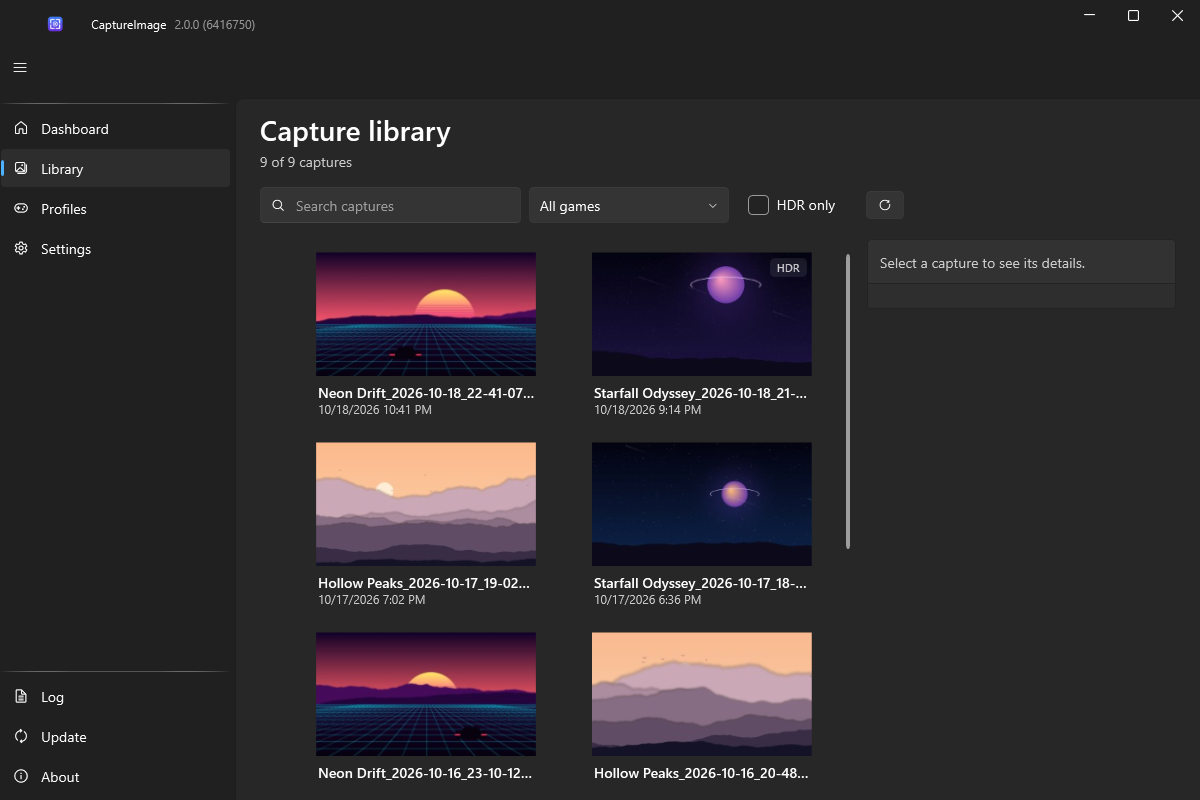
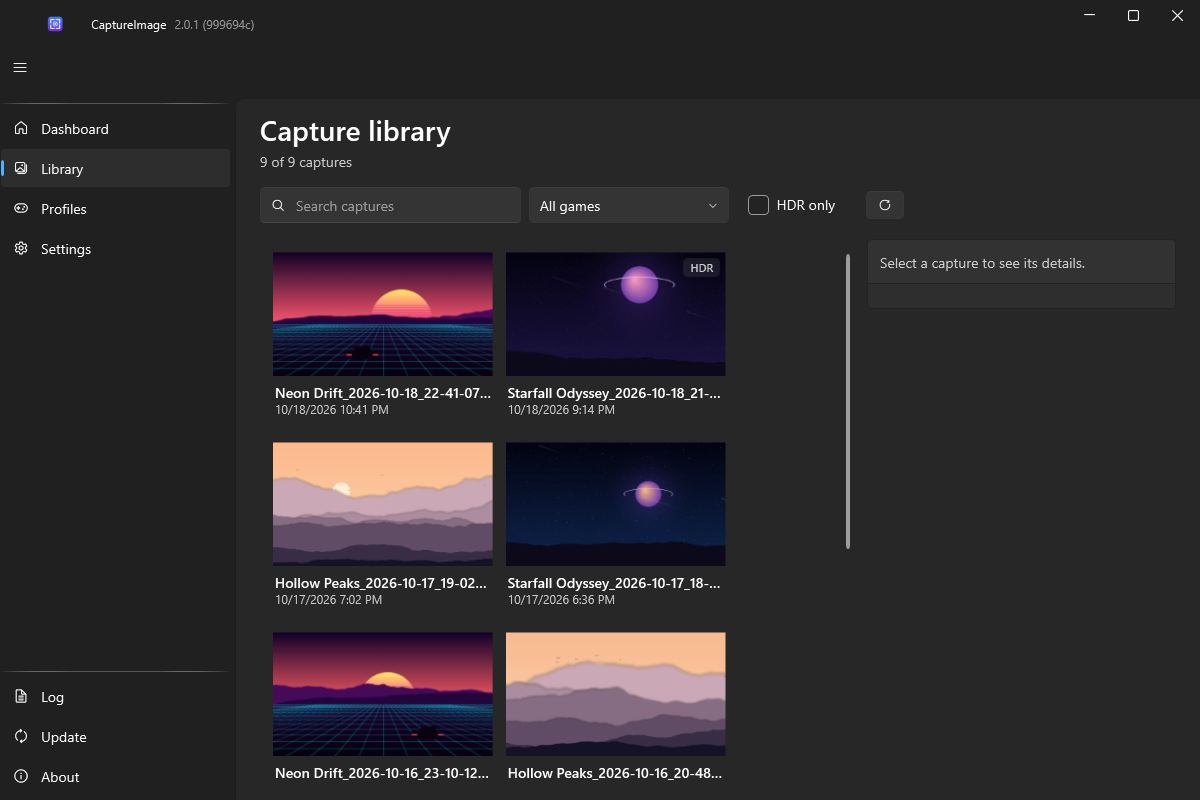
chore(release): 2.0.1
- Version 2.0.1; CHANGELOG [2.0.1] - 2026-10-19 (also the release and in-app update notes).
- Lock files refreshed for the project versions.
- README screenshots re-rendered with 2.0.1 (demo data, hidden desktop): readable About text and
  the left-aligned library grid.

Changed region(s): [[0.2158, 0.3125, 0.6783, 0.75], [0.2158, 0.7812, 0.6783, 1.0], [0.5242, 0.5938, 0.555, 0.6562]]

diff --git a/CHANGELOG.md b/CHANGELOG.md
@@ -7,6 +7,26 @@ and this project adheres to [Semantic Versioning](https://semver.org/spec/v2.0.0
 
 ## [Unreleased]
 
+## [2.0.1] - 2026-10-19
+
+### Fixed
+
+- With **Clipboard mode: copy only**, a capture that couldn't be copied (for example while another
+  app was holding the clipboard) was reported as a success although nothing was saved or copied.
+  It now shows an error.
+- On HDR displays, pixels a game reported as infinitely bright came out black instead of white, and
+  an invalid colour value stopped the highlights next to it from rolling off smoothly.
+- A Steam library folder that couldn't be read (for example on a disconnected drive) broke Steam
+  detection for every window until the app was restarted. That library is now skipped, and a failed
+  scan is tried again a minute later.
+- Text without a style of its own — such as the component names and the disclaimer headings on the
+  About page — was drawn in a dim grey instead of the theme's text colour, which was hard to read in
+  the dark theme.
+- The capture library lays its thumbnails out from the left edge instead of spreading wide gaps
+  around them.
+- About: the capture notice no longer mentions the GDI fallback that 2.0.0 removed, and the
+  translation notice points to the folder where the language files now live.
+
 ## [2.0.0] - 2026-10-19
 
 CaptureImage 2.0 is a rewrite of the app around the same idea: arm the hotkeys, press one in
